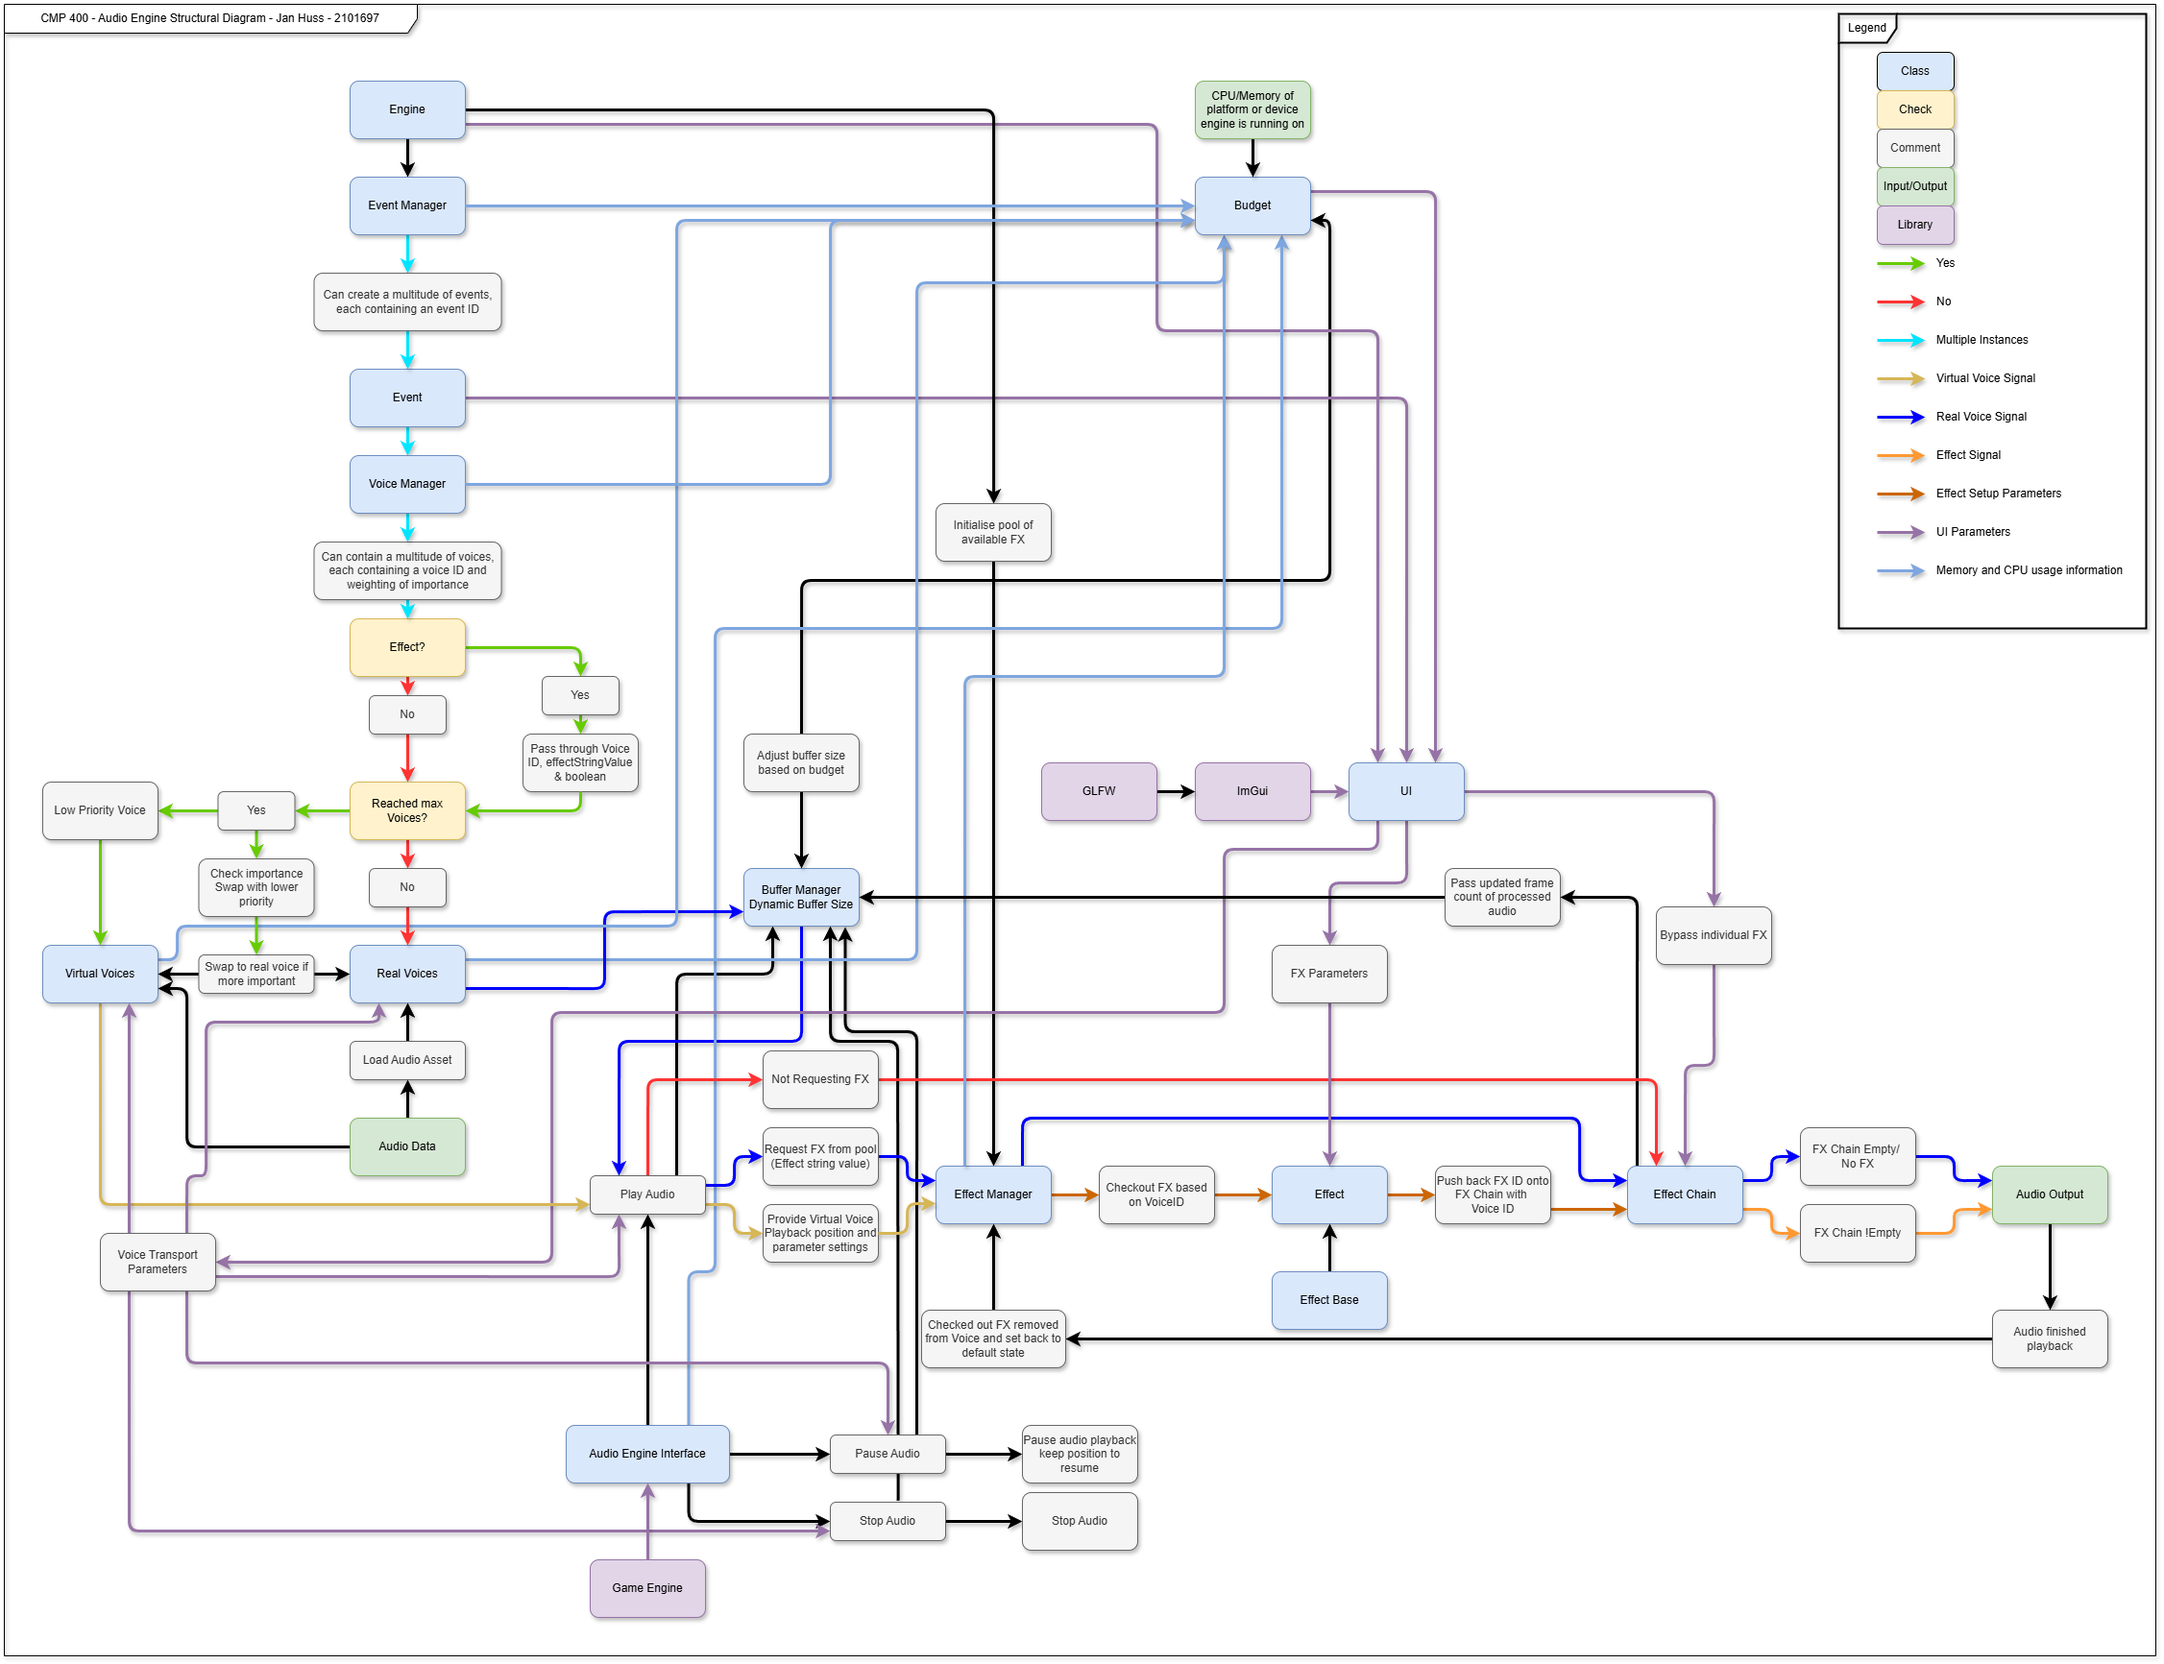
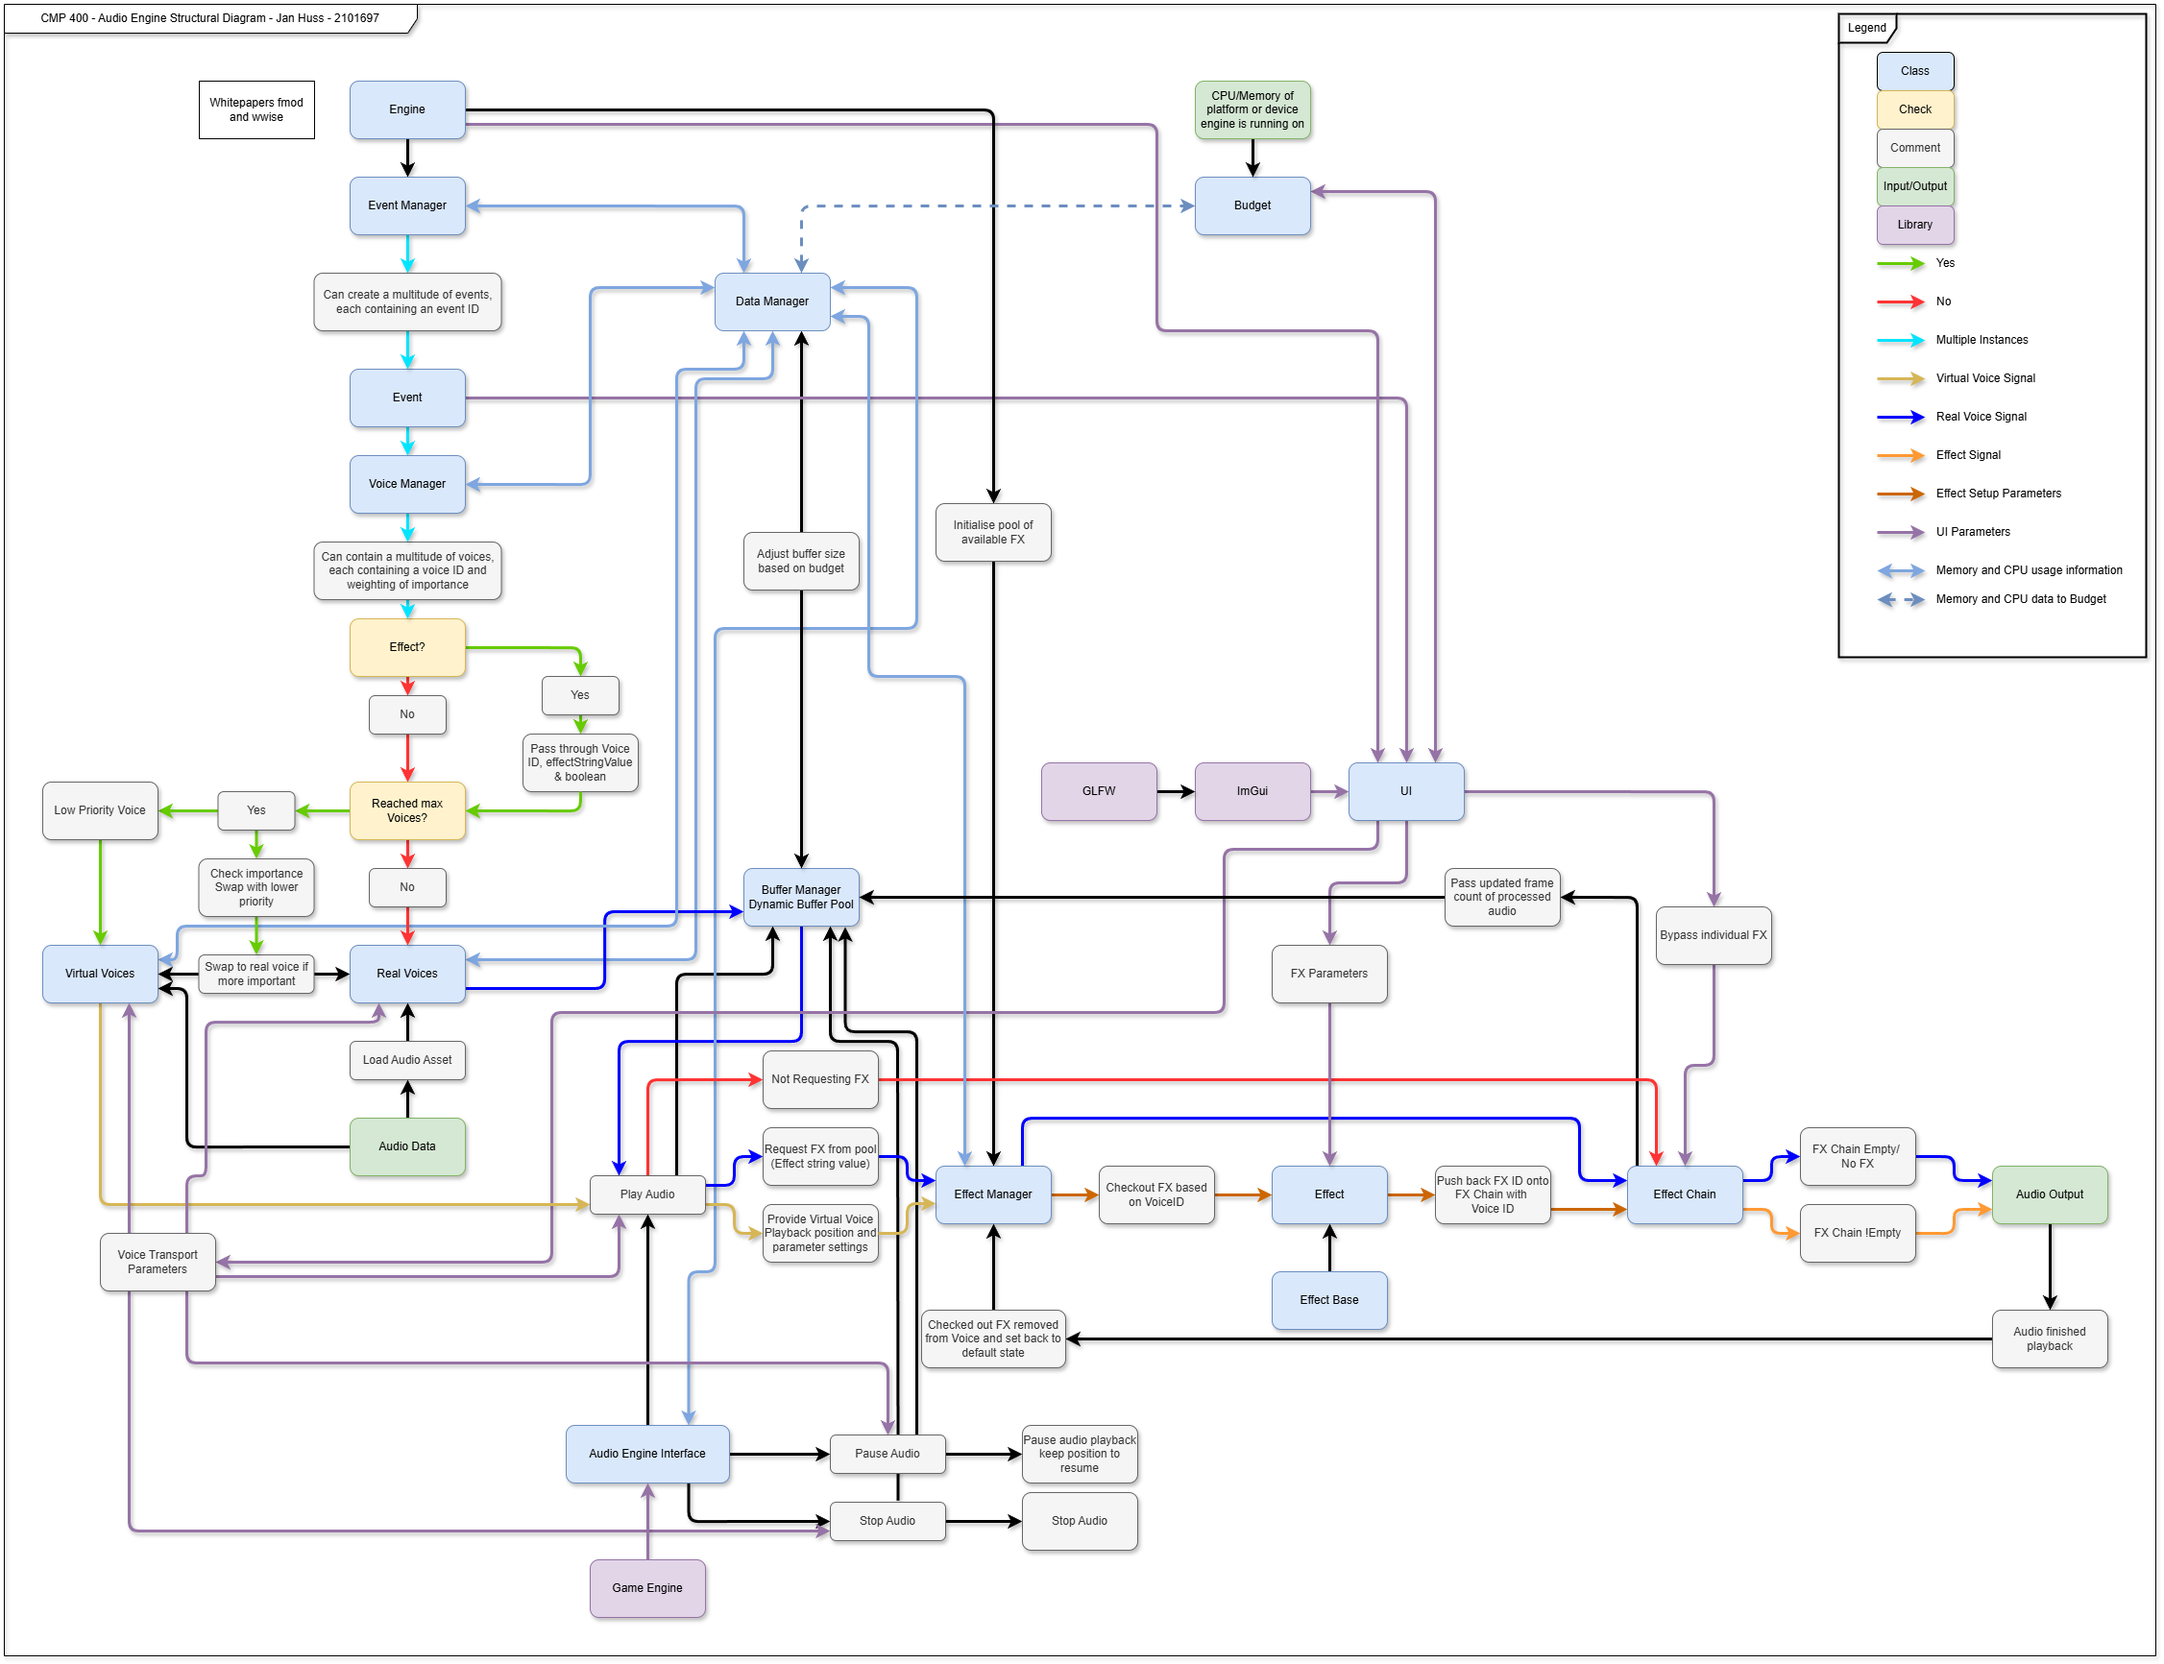
added comments to effectcore folder
- added each functionality to their dedicated classes
- amended the Structure diagram
- need to still consider a resource manager class

diff --git a/AudioEngine/AudioEngine/EffectChain.h b/AudioEngine/AudioEngine/EffectChain.h
@@ -1,4 +1,31 @@
 #pragma once
+
+/// <Effect Chain Summary>
+/// ==========================================================
+/// This class can hold a container of "Effect" class 
+/// instances. 
+/// This class may make use of the object pool design pattern.
+/// 
+/// The audio data from a Voice is passed into this class and 
+/// is passed through the container processing the signal
+/// procedurally and are returned back to the EffectsChain 
+/// class to either process the signal through the next effect
+/// or output the signal to the sound card.
+/// 
+/// This class will also need to communicate with the Buffer
+/// Manager as the length of the voice will change if a delay
+/// or a reverb is used.
+/// 
+/// The UI class will display the chosen effect's parameters
+/// including a function to bypass an effect.
+/// 
+/// A `noAudioEffect` function will be triggered if no effect
+/// is applied to a Voice and will output the signal 
+/// unprocessed to the soundcard.
+/// 
+/// ==========================================================
+/// </Effect Chain Summary>
+
 class EffectChain
 {
 };

diff --git a/AudioEngine/AudioEngine/DataManager.h b/AudioEngine/AudioEngine/DataManager.h
@@ -1,0 +1,27 @@
+#pragma once
+
+/// <Data Manager Summary>
+/// ==========================================================
+/// For simplicity, classes 
+/// 
+/// This class contains all the data that needs to be passed
+/// on from Budget to the classes it needs to communicate the
+/// given threshold to.
+/// 
+/// It also contains all the data on memory and CPU usage from
+/// all the other classes which need to be sent to the Budget
+/// class.
+/// 
+/// This way the engine is avoiding circular dependencies and
+/// this class can act as a "Core class" that contains getters
+/// and setters updating the information provided.
+/// 
+/// This class is initialised by the Engine class.
+/// 
+/// ==========================================================
+/// </Data Manager Summary>
+
+class DataManager
+{
+};
+

diff --git a/AudioEngine/AudioEngine/EffectManager.h b/AudioEngine/AudioEngine/EffectManager.h
@@ -1,4 +1,20 @@
 #pragma once
+
+/// <Effect Manager Summary>
+/// ==========================================================
+/// This class might be merged with the Effect Chain class.
+/// This class will make use of the object pool design pattern
+/// and will tell the Effect Chain class to set an Effect to 
+/// the Voice ID it has been assigned to by using a "checkOut"
+/// system.
+/// 
+/// This class also communicates with the Budget class to
+/// pass on the memory and CPU usage but also to recieve
+/// information on the set Budget allowance.
+/// 
+/// ==========================================================
+/// </Effect Manager Summary>
+
 class EffectManager
 {
 };

diff --git a/AudioEngine/AudioEngine/EffectBase.h b/AudioEngine/AudioEngine/EffectBase.h
@@ -1,4 +1,17 @@
 #pragma once
+
+/// <EffectBase Summary>
+/// ==========================================================
+/// This base class takes in the audio data from the Voice's
+/// Effect Chain the effect is assigned to.
+/// 
+/// The audio data is then processed by the effect.
+/// 
+/// The processed effect is then returned to the Effect Chain.
+/// 
+/// ==========================================================
+/// </EffectBase Summary>
+
 class EffectBase
 {
 };

diff --git a/AudioEngine/AudioEngine/BitCrush.h b/AudioEngine/AudioEngine/BitCrush.h
@@ -1,4 +1,12 @@
 #pragma once
+
+/// <BitCrush Summary>
+/// ==========================================================
+/// This class contains a Bitcrush effect.
+/// 
+/// ==========================================================
+/// </BitCrush Summary>
+
 #include "EffectBase.h"
 class BitCrush :
     public EffectBase

diff --git a/AudioEngine/AudioEngine/Delay.h b/AudioEngine/AudioEngine/Delay.h
@@ -1,4 +1,12 @@
 #pragma once
+
+/// <Delay Summary>
+/// ==========================================================
+/// This class contains a delay effect.
+/// 
+/// ==========================================================
+/// </Delay Summary>
+
 #include "EffectBase.h"
 class Delay :
     public EffectBase

diff --git a/AudioEngine/AudioEngine/DataManager.cpp b/AudioEngine/AudioEngine/DataManager.cpp
@@ -1,0 +1,1 @@
+#include "DataManager.h"
